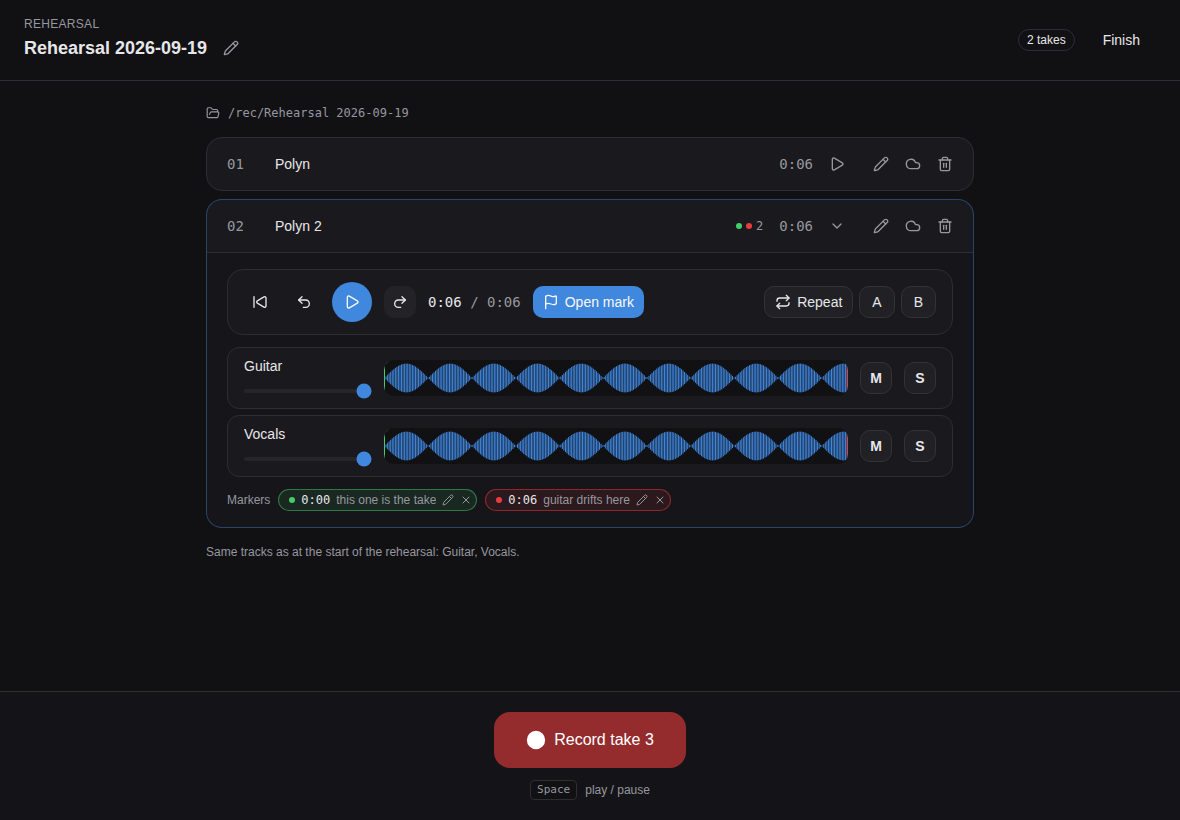
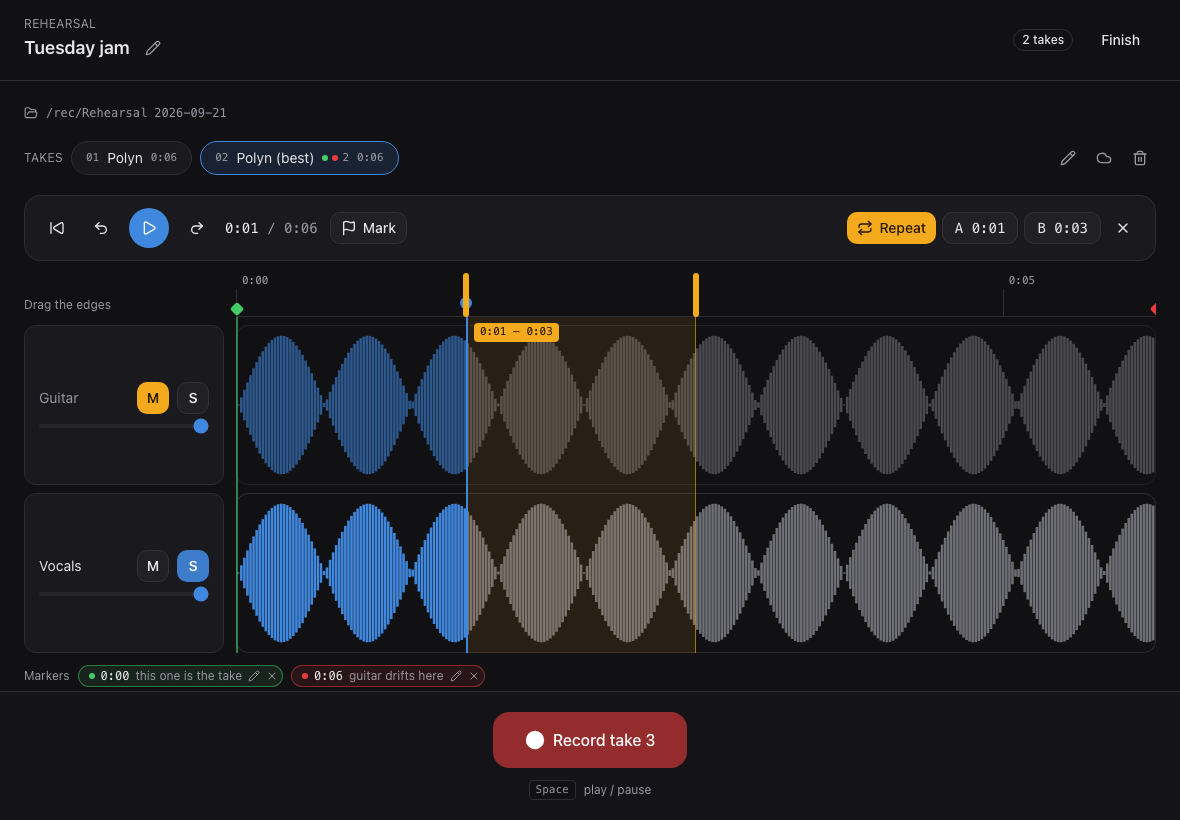
Show the timeline in the README, and what a rehearsal was
The player picture still showed one waveform per track in a column down
the middle of the window, which is the thing this branch replaced, and
the text beside it promised markers "on the take row" — rows that no
longer exist.

Also adds the one screen that had no picture at all: past rehearsals,
each saying what was played in it. That summary is the answer to the
question people actually arrive at History with, and it was easier to
show than to describe.

diff --git a/README.md b/README.md
@@ -42,13 +42,23 @@ buried in a menu: on screen during the take, because that is the only moment
 anyone would act on it.
 
 **Plays the take back immediately**, all tracks in sync, with per-track
-volume, mute and solo, A–B repeat, and markers you drop while listening.
+volume, mute and solo, and markers you drop while listening. Every track
+shares one timeline, so where two of them parted company is something you can
+point at rather than guess. Drag across it to set the repeat region — no
+picking A and B out of two buttons.
 
-![A take with markers on the waveform](docs/screenshots/player-markers.png)
+![A take on the timeline, with the repeat region drawn across both tracks](docs/screenshots/player-markers.png)
 
 **Markers say what happened, not just where.** A note and a kind — keep this,
-went wrong, do again — coloured on the waveform and on the take row, so a
-glance at the list says which take has red in it.
+went wrong, do again — coloured on the timeline and on the take's pill, so a
+glance at the strip says which take has red in it.
+
+**Tells you what a rehearsal was.** Months later a date and a take count are
+not how anyone recognises an evening, so each one says what was played in it,
+how long it ran and what it weighs on disk. It is read from the take names,
+so nothing extra has to be filled in while you are playing.
+
+![Past rehearsals, each saying what was played in it](docs/screenshots/history.png)
 
 **Sends the good ones to the cloud.** A whole rehearsal is mostly failed
 attempts, so the recordings folder does not sync — only the takes you keep,
